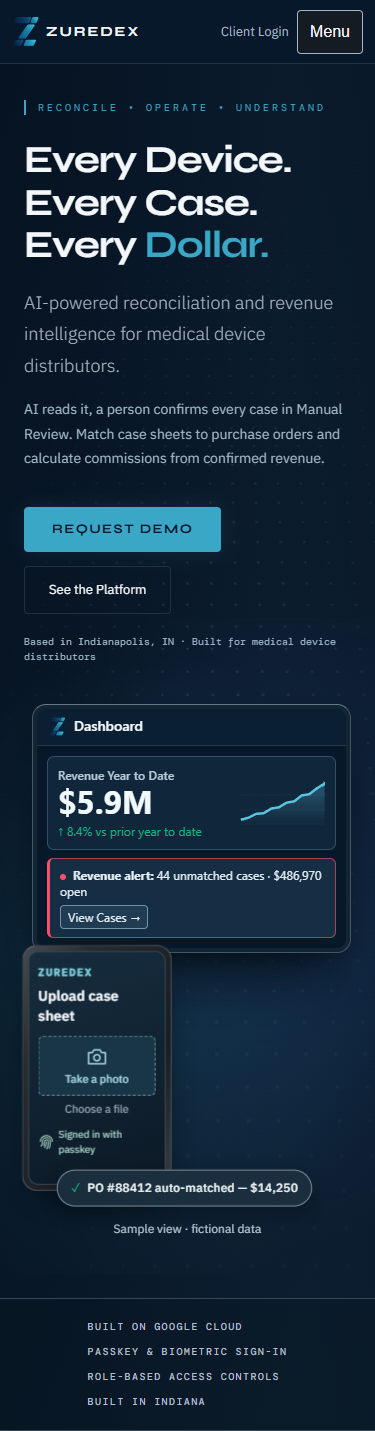
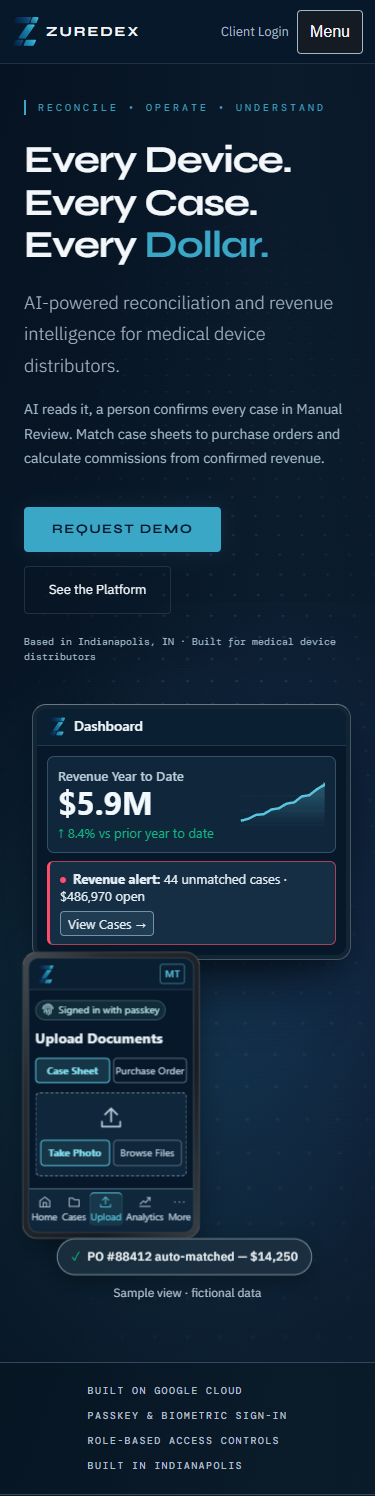
Match the hero upload phone to the mobile app

diff --git a/app/showcase.css b/app/showcase.css
@@ -21,7 +21,6 @@
   font: 12px/1.5 var(--font-plex), sans-serif;
   text-align: center;
 }
-.hero-sample .sample-caption { margin-top: 32px; }
 .showcase {
   position: relative;
   isolation: isolate;
@@ -32,7 +31,7 @@
 .showcase-scene {
   display: grid;
   grid-template-columns: 1fr;
-  grid-template-rows: auto 76px auto;
+  grid-template-rows: auto 66px auto auto;
   transform-style: preserve-3d;
 }
 
@@ -55,7 +54,7 @@
   border-radius: 10px;
   background: #07182a;
   color: #f2f9fc;
-  font: 12px/1.35 "Segoe UI", sans-serif;
+  font: 13px/1.35 "Segoe UI", sans-serif;
   font-variant-numeric: tabular-nums;
 }
 .dash-header {
@@ -111,26 +110,18 @@
 .dash-alert strong::before { content: ""; display: inline-block; width: 6px; height: 6px; margin-right: 7px; border-radius: 50%; background: #ff4d6a; vertical-align: middle; }
 .dash-view { padding: 3px 7px; border: 1px solid #7292a8; border-radius: 4px; background: #203c52; white-space: nowrap; }
 .dash-pipeline {
-  padding-left: 100px;
+  padding-left: 130px;
   mask-image: linear-gradient(black 78%, transparent 100%);
 }
 .dash-reps { display: grid; grid-template-columns: repeat(2, minmax(0, 1fr)); gap: 7px; margin-top: 5px; }
 .dash-reps .dash-card { padding: 7px 9px 12px; }
 .dash-territory { color: #b7cbd8; }
-.dash-track { height: 3px; margin-top: 5px; background: #24384a; }
+.dash-track { height: 4px; margin-top: 5px; border-radius: 2px; overflow: hidden; background: var(--dash-cyan); }
 .dash-track span { display: block; height: 100%; background: #10b981; }
-
-.phone-brand {
-  display: block;
-  margin-bottom: 8px;
-  color: var(--accentSoft);
-  font: 600 10px/1.2 var(--font-dm), monospace;
-  letter-spacing: .17em;
-}
 
 .upload-phone {
   grid-area: 2 / 1 / 4;
-  width: 148px;
+  width: 176px;
   align-self: start;
   padding: 5px;
   border: 1px solid #51565c;
@@ -141,41 +132,71 @@
   transform: translateZ(14px);
 }
 .phone-screen {
-  padding: 14px 9px 27px;
+  --phone-cyan: #58c4de;
+  overflow: hidden;
   border: 1px solid #344653;
   border-radius: 10px;
-  background: linear-gradient(160deg, #162d3e, #0c1926);
+  background: #07182a;
+  color: #e6eff4;
+  font: 10px/1.35 "Segoe UI", sans-serif;
 }
-.phone-screen strong { display: block; font-size: 14px; line-height: 1.4; }
-.phone-upload {
-  display: grid;
-  justify-items: center;
-  gap: 3px;
-  padding: 8px 2px;
-  margin-block: 9px 5px;
-  border: 1px dashed #5b97a9;
-  border-radius: 5px;
-  background: #193646;
-  color: #b4e6ee;
-  font-size: 11px;
-}
-.phone-upload svg { width: 22px; }
-.phone-file { display: block; color: var(--t2); text-align: center; font-size: 11px; }
-.passkey-indicator {
+.phone-header {
   display: flex;
   align-items: center;
-  gap: 4px;
-  margin-top: 10px;
-  color: #acdace;
-  font-size: 10px;
-  line-height: 1.4;
+  justify-content: space-between;
+  padding: 5px 8px;
+  border-bottom: 1px solid #24384a;
+  background: #0b1f33;
 }
-.passkey-indicator svg { flex: none; width: 16px; }
+.phone-avatar { padding: 2px 4px; color: var(--phone-cyan); border: 1px solid #34738b; border-radius: 3px; font-weight: 600; }
+.phone-content { display: grid; gap: 9px; padding: 10px 6px 12px; }
+.passkey-indicator {
+  display: inline-flex;
+  align-items: center;
+  justify-self: start;
+  gap: 4px;
+  padding: 2px 5px;
+  border: 1px solid #335666;
+  border-radius: 12px;
+  background: #112b39;
+  color: #b8e0e5;
+}
+.passkey-indicator svg { width: 13px; height: 13px; }
+.phone-title { font-size: 14px; }
+.phone-segments, .phone-actions { display: grid; grid-template-columns: 1fr 1fr; gap: 3px; }
+.phone-segments span, .phone-actions span {
+  padding: 5px 0;
+  text-align: center;
+  white-space: nowrap;
+  border: 1px solid #526c7e;
+  border-radius: 4px;
+  color: #bdd0de;
+}
+.phone-segments span:first-child, .phone-actions span:first-child {
+  border-color: var(--phone-cyan);
+  background: #163648;
+  color: #85e1f1;
+  font-weight: 700;
+}
+.phone-drop { display: grid; gap: 10px; padding: 12px 4px 9px; background: #10263b; border: 1px dashed #7292a8; border-radius: 5px; }
+.phone-drop > svg { width: 24px; justify-self: center; color: #b7cbd8; }
+.phone-tabs {
+  display: flex;
+  justify-content: space-around;
+  border-top: 1px solid #526c7e;
+  padding: 3px 0 6px;
+  background: #10263b;
+  color: #bbcedb;
+  font-size: 9.5px;
+}
+.phone-tabs span { display: grid; justify-items: center; gap: 2px; padding: 3px 1px; }
+.phone-tabs svg { width: 13px; height: 13px; }
+.phone-active-tab { color: var(--phone-cyan); background: #17384a; border-radius: 4px; box-shadow: inset 0 1px var(--phone-cyan); }
 .match-pill {
-  grid-area: 3 / 1;
+  grid-area: 4 / 1;
   justify-self: start;
   align-self: end;
-  margin: 0 0 -12px 36px;
+  margin: -4px 0 0 36px;
   max-width: calc(100% - 36px);
   padding: 8px 13px;
   border: 1px solid #748c99;

diff --git a/app/page.tsx b/app/page.tsx
@@ -6,6 +6,7 @@ import mobileCases from "@/public/cases-mobile.png";
 import SiteStyles from "@/components/SiteStyles";
 import SiteNav from "@/components/SiteNav";
 import SiteFooter from "@/components/SiteFooter";
+import SampleUploadPhone from "@/components/SampleUploadPhone";
 import SampleDashboard from "@/components/SampleDashboard";
 import ShowcaseTilt from "@/components/ShowcaseTilt";
 import { analyticsSampleMetrics, sampleDashboard, sampleCaption, sampleMatchedPO } from "@/lib/sample-data";
@@ -82,25 +83,7 @@ export default function Page() {
           <figure className="hero-sample">
             <ShowcaseTilt>
               <SampleDashboard />
-              <div className="upload-phone" role="group" aria-label="Sample mobile case sheet upload">
-                <div className="phone-screen">
-                  <span className="phone-brand">ZUREDEX</span>
-                  <strong>Upload case sheet</strong>
-                  <span className="phone-upload">
-                    <svg aria-hidden="true" viewBox="0 0 24 24" fill="none" stroke="currentColor" strokeWidth="1.5">
-                      <path d="M3 8h4l2-3h6l2 3h4v12H3z" strokeLinejoin="round" /><circle cx="12" cy="13.5" r="3.3" />
-                    </svg>
-                    Take a photo
-                  </span>
-                  <span className="phone-file">Choose a file</span>
-                  <span className="passkey-indicator">
-                    <svg aria-hidden="true" viewBox="0 0 24 24" fill="none" stroke="currentColor" strokeWidth="1.5" strokeLinecap="round">
-                      <path d="M3 11a9 9 0 0 1 18 0m-15 2v-2a6 6 0 0 1 12 0c0 4-.5 7-2 10M4 18c1-1.5 2-3 2-5m3 7c2-2.5 3-5.5 3-9m-4 6c1-2 1-3.5 1-6a3 3 0 0 1 6 0c0 5-1 8-2.5 11" />
-                    </svg>
-                    Signed in with passkey
-                  </span>
-                </div>
-              </div>
+              <SampleUploadPhone />
               <p className="match-pill">
                 <span className="match-check" aria-hidden="true">✓</span> PO #{sampleMatchedPO.number} auto-matched — {sampleMatchedPO.amount}
               </p>
@@ -111,7 +94,7 @@ export default function Page() {
       </section>
 
       <ul className="hero-trust" aria-label="Platform and company details">
-        {["BUILT ON GOOGLE CLOUD", "PASSKEY & BIOMETRIC SIGN-IN", "ROLE-BASED ACCESS CONTROLS", "BUILT IN INDIANA"].map((item, index) => (
+        {["BUILT ON GOOGLE CLOUD", "PASSKEY & BIOMETRIC SIGN-IN", "ROLE-BASED ACCESS CONTROLS", "BUILT IN INDIANAPOLIS"].map((item, index) => (
           <li key={item}>{index > 0 && <span aria-hidden="true">•</span>}{item}</li>
         ))}
       </ul>

diff --git a/components/SampleUploadPhone.tsx b/components/SampleUploadPhone.tsx
@@ -1,0 +1,49 @@
+import { sampleDashboard } from "@/lib/sample-data";
+
+const tabs = [
+  { label: "Home", path: "m3 10 9-7 9 7v11H3z M9 21v-8h6v8" },
+  { label: "Cases", path: "M3 5h7l2 3h9v12H3z" },
+  { label: "Upload", path: "M12 16V3m-6 6 6-6 6 6M3 16v5h18v-5" },
+  { label: "Analytics", path: "M2 20h20M3 16l6-6 4 3 8-9m-6 0h6v6" },
+  { label: "More", path: "M3 12h2m6 0h2m6 0h2" },
+] as const;
+
+function PhoneIcon({ path }: { path: string }) {
+  return (
+    <svg viewBox="0 0 24 24" fill="none" stroke="currentColor" strokeWidth="1.7" strokeLinecap="round" strokeLinejoin="round">
+      <path d={path} />
+    </svg>
+  );
+}
+
+export default function SampleUploadPhone() {
+  const initials = sampleDashboard.reps[0].name.split(" ").map(part => part[0]).join("");
+  return (
+    <div className="upload-phone" role="img" aria-label="Sample Zuredex mobile upload screen">
+      <div className="phone-screen" aria-hidden="true">
+        <div className="phone-header">
+          <span className="dash-symbol" /><span className="phone-avatar">{initials}</span>
+        </div>
+        <div className="phone-content">
+          <span className="passkey-indicator">
+            <PhoneIcon path="M3 11a9 9 0 0 1 18 0m-15 2v-2a6 6 0 0 1 12 0c0 4-.5 7-2 10M4 18c1-1.5 2-3 2-5m3 7c2-2.5 3-5.5 3-9m-4 6c1-2 1-3.5 1-6a3 3 0 0 1 6 0c0 5-1 8-2.5 11" />
+            Signed in with passkey
+          </span>
+          <strong className="phone-title">Upload Documents</strong>
+          <div className="phone-segments"><span>Case Sheet</span><span>Purchase Order</span></div>
+          <div className="phone-drop">
+            <PhoneIcon path="M12 16V3m-6 6 6-6 6 6M3 16v5h18v-5" />
+            <div className="phone-actions"><span>Take Photo</span><span>Browse Files</span></div>
+          </div>
+        </div>
+        <div className="phone-tabs">
+          {tabs.map(tab => (
+            <span key={tab.label} className={tab.label === "Upload" ? "phone-active-tab" : undefined}>
+              <PhoneIcon path={tab.path} />{tab.label}
+            </span>
+          ))}
+        </div>
+      </div>
+    </div>
+  );
+}
